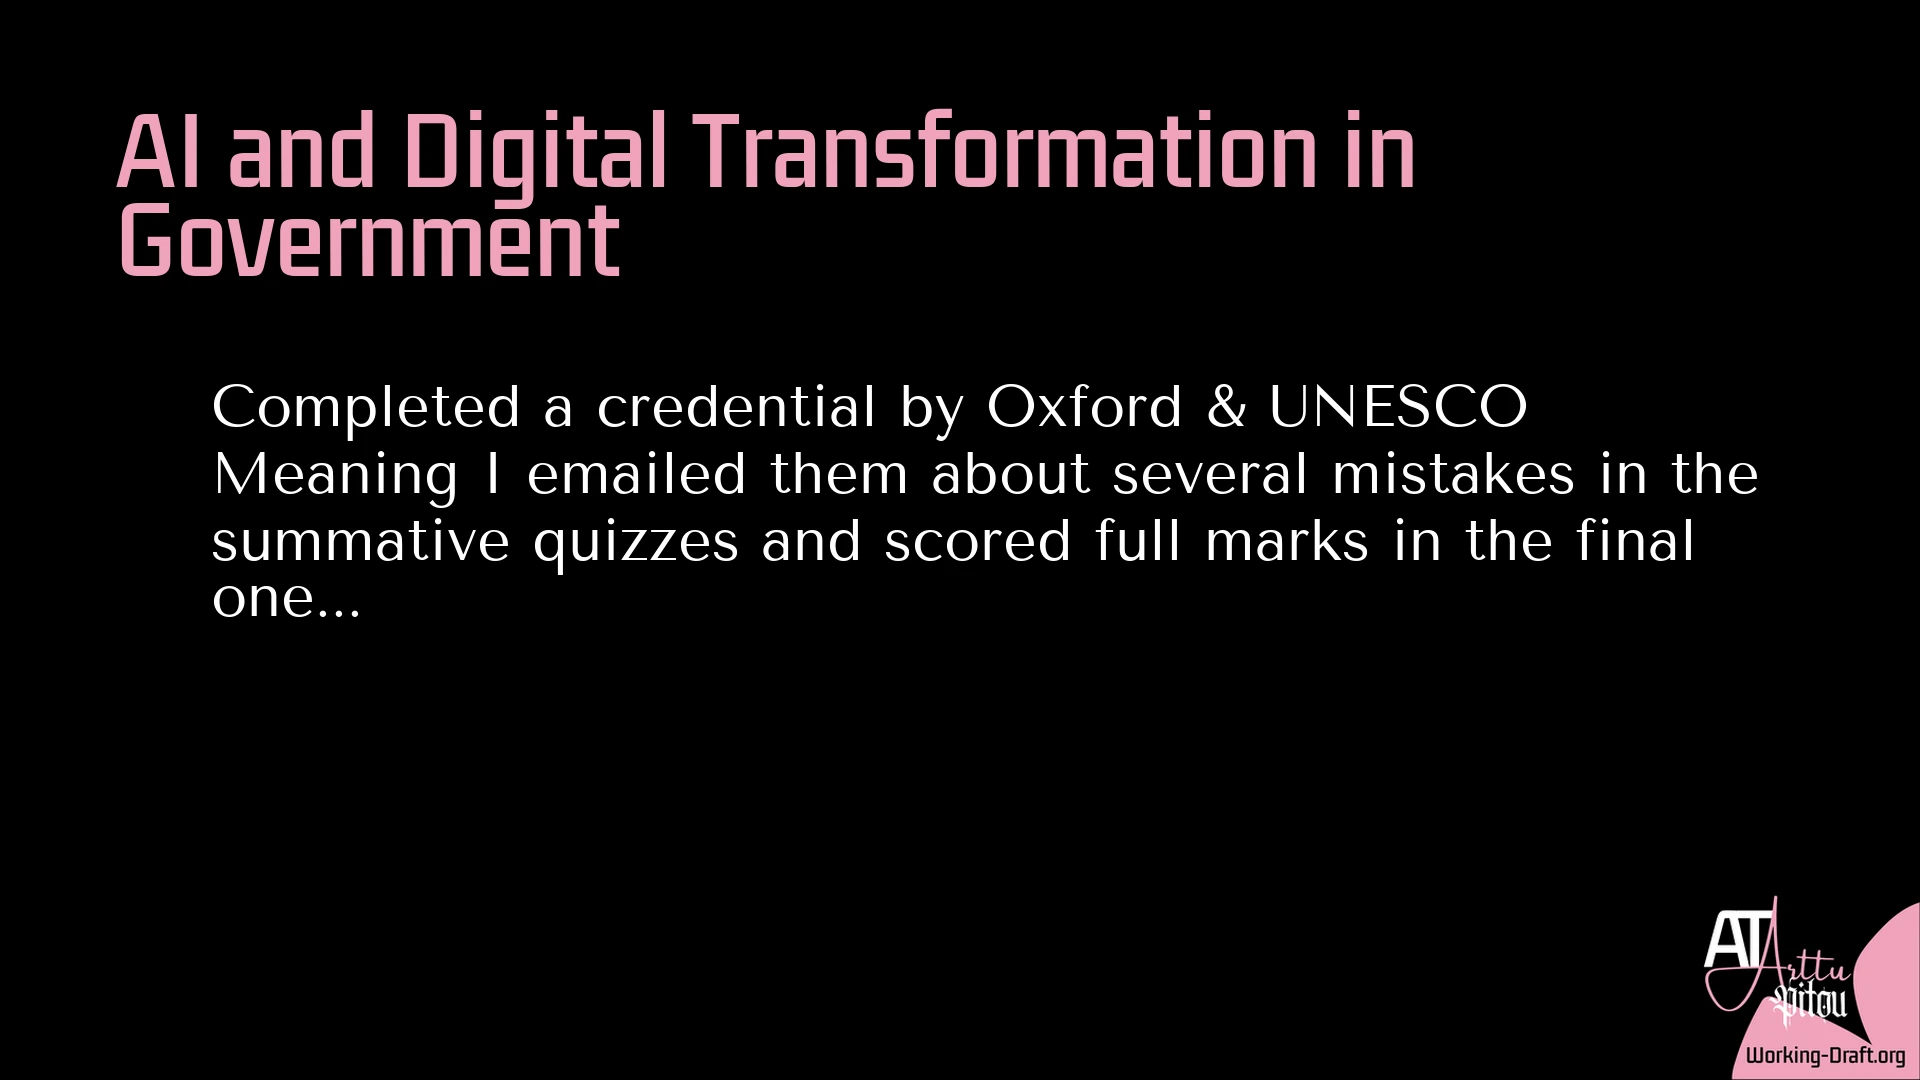
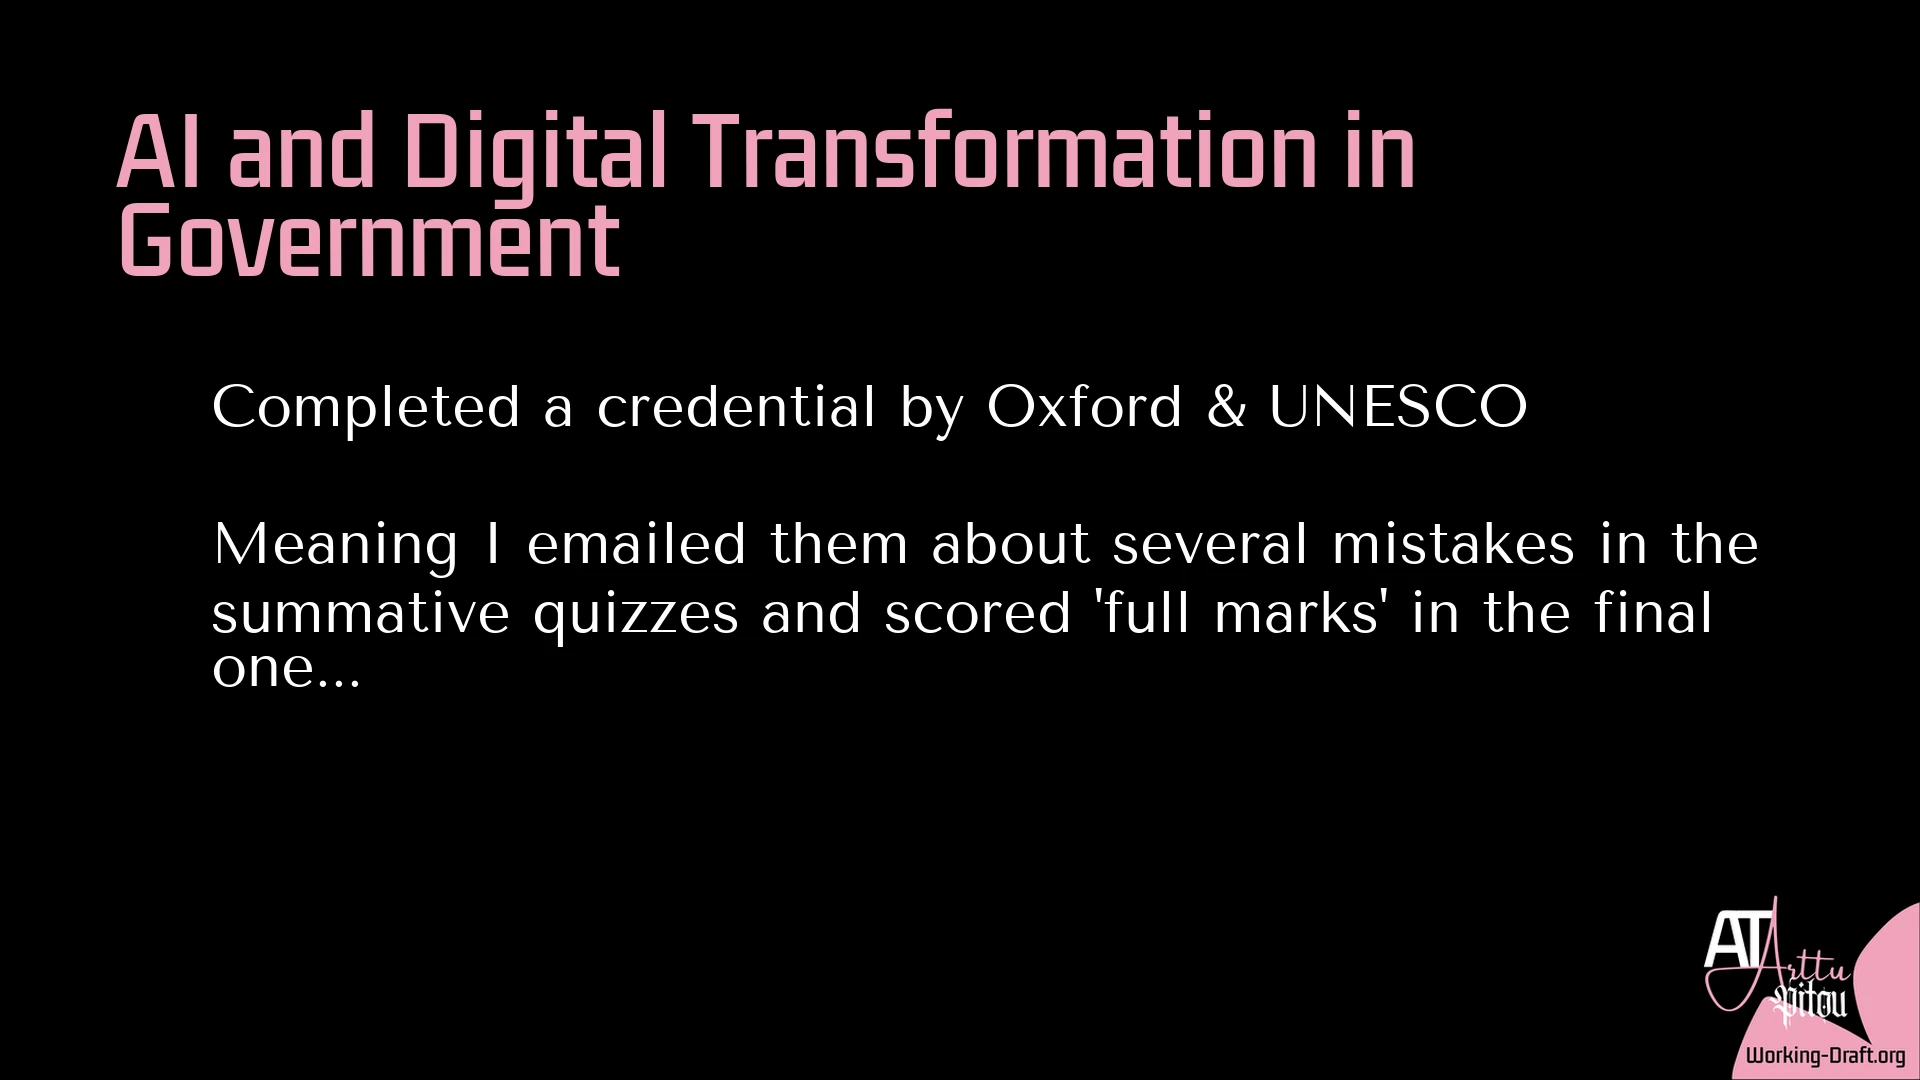
Whim #6 - AI and Digital Transformation in Government

Changed region(s): [[0.0938, 0.4889, 0.9062, 0.6417], [0.0938, 0.4278, 0.9062, 0.4583]]

diff --git a/_whims/2026-08-19-ai-and-digital-transformation-in-government.md b/_whims/2026-08-19-ai-and-digital-transformation-in-government.md
@@ -4,11 +4,12 @@ title: "AI and Digital Transformation in Government"
 date: 2026-08-19T21:06:23.538438+00:00
 uuid: "ff3f064f-7050-46b6-9782-d1f33ed59b08"
 slug: "ai-and-digital-transformation-in-government"
-revision: 1
+revision: 2
 visibility: "public"
 permalink: /whims/ai-and-digital-transformation-in-government/
 image: "/assets/whims/ai-and-digital-transformation-in-government-hd.webp"
-image_alt: "A black Whim Du Jour card with the pink At Arttu Pitou logo and Working-Draft.org as source in the lower-right corner. Title: AI and Digital Transformation in Government. Text: Completed a credential by Oxford & UNESCO Meaning I emailed them about several mistakes in the summative quizzes and scored full marks in the final one..."
+image_alt: "A black Whim Du Jour card with the pink At Arttu Pitou logo and Working-Draft.org as source in the lower-right corner. Title: AI and Digital Transformation in Government. Text: Completed a credential by Oxford & UNESCO Meaning I emailed them about several mistakes in the summative quizzes and scored 'full marks' in the final one..."
 ---
 Completed a credential by Oxford & UNESCO
-Meaning I emailed them about several mistakes in the summative quizzes and scored full marks in the final one...
+
+Meaning I emailed them about several mistakes in the summative quizzes and scored 'full marks' in the final one...
